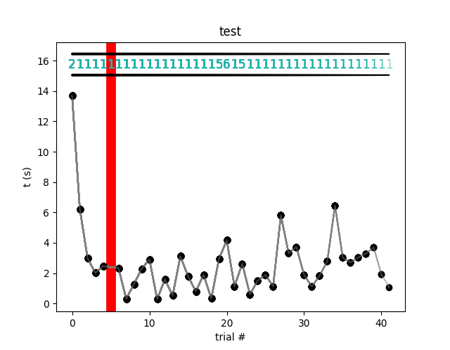
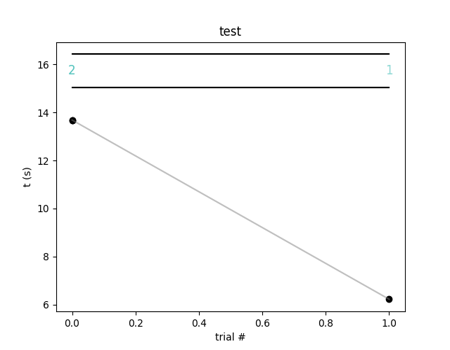
Working start button with VM test and .sh logic with communication between run_time and UI

diff --git a/krave/ui/ui.py b/krave/ui/ui.py
@@ -3,6 +3,7 @@ import matplotlib.pyplot as plt
 import pandas as pd
 from krave.ui.constants import Colors, PATHS, DEFAULT_FPS, DEFAULT_UPDATE_TIME_SECONDS, DATA_HEADERS
 from krave.output.data_writer import DataWriter
+from krave.ui.button_start_class import StartButton
 import tkinter as tk
 from tkinter import filedialog
 from threading import Thread
@@ -70,13 +71,19 @@ class UI():
         self._last_trial = -1
         self._initial_index = 1
         self._first_change = False
-        self._last_mod_time = os.path.getmtime(self._source_data_path)
+        self._last_mod_time = None
         # TODO(r.hueto@icloud.com): Remove total_trials when connected with main krave loop.
         self._total_trials = 42
     
     def _check_pygame_quit_event(self):
         """Check for events in pygame to quit the main loop and end program"""
         for event in pygame.event.get():
+                if pygame.mouse.get_pressed()[0]:
+                    mouse_x, mouse_y = pygame.mouse.get_pos()
+
+                    if self.buttonStart.pressed(mouse_x,mouse_y):
+                        self.buttonStart.activate()
+                
                 if event.type == pygame.QUIT:
                     return False
         return True
@@ -148,8 +155,11 @@ class UI():
     def draw(self):
         """Loads graph image and draws elements in the pygame window"""
         self._pygame_window.fill(Colors.WHITE)
-        img = pygame.image.load(PATHS.TEMP_IMG_RESIZED)
-        self._pygame_window.blit(img, (25,0))
+        if self.buttonStart.activated:
+            img = pygame.image.load(PATHS.TEMP_IMG_RESIZED)
+            self._pygame_window.blit(img, (25,0))
+        self.buttonStart.draw("START", self._pygame_window)
+
         pygame.display.update()
     
     def read_data_file_csv(self):
@@ -209,21 +219,8 @@ class UI():
     def run(self):
         """Run main UI thread."""
 
-        #events_path = os.path.join(DataWriter.data_write_path, DataWriter.events_name)
-        #self._source_data_path = DataWriter.events_path
-
-        test_path = "/home/pi/communication.txt"
-
-        with open(test_path, "r") as file:
-            self._source_data_path = file.read()
-
-        if os.path.exists(test_path):
-            os.remove(test_path)
-        else:
-            print("File doesn't exists")
-
-        if not self._source_data_path:
-            self._source_data_path = self._prompt_for_data_file()
+        self.buttonStart = StartButton(200, 345, 100, 50, Colors.L_BLUE)
+        
         self._init_pygame()
         self._init_analyzed_data_file()
         self._init_ui_loop_parameters()
@@ -232,18 +229,24 @@ class UI():
         start_time = time.time()
         while run:
             # Run UI update every {update_time_seconds} seconds.
-            current_time = time.time()
-            diff_time = current_time - start_time
-            if diff_time >= self._update_time_seconds:
-                start_time = time.time()
-                self.check_for_data_update()
+            if self.buttonStart.activated:
+                current_time = time.time()
+                diff_time = current_time - start_time
+                if diff_time >= self._update_time_seconds:
+                    start_time = time.time()
+                    self.check_for_data_update()
 
             self._pygame_clock.tick(self._FPS)
             self.draw()
             run = self._check_pygame_quit_event()
 
 
-
+        pid = self.buttonStart.RUN_TASK.pid
+        if self.buttonStart.RUN_TASK.poll() is None:
+            print("Ending process...")
+            self.buttonStart.RUN_TASK.terminate()
+            self.buttonStart.RUN_TASK.wait()
+            print("Process ended")
         self._quit_pygame()
 
 #FUNCTIONS

diff --git a/krave/experiment/task.py b/krave/experiment/task.py
@@ -8,7 +8,7 @@ from krave.output.data_writer import DataWriter
 from krave.hardware.visual import Visual
 from krave.hardware.camera_basler import CameraBasler
 from krave.hardware.spout import Spout
-#from krave.hardware.camera_pi import CameraPi
+from krave.hardware.camera_pi import CameraPi
 from krave.hardware.sound import Sound
 
 import pygame
@@ -36,7 +36,7 @@ class Task:
         self.visual = Visual(self.data_writer)
         self.trigger = CameraBasler(self.hardware_config, self.data_writer)
         self.spout = Spout(self.hardware_config, self.data_writer)
-        #self.camera = CameraPi()
+        self.camera = CameraPi()
         self.sound = Sound()
 
         # session variables
@@ -75,7 +75,7 @@ class Task:
 
     def start_session(self):
         """starts camera for 20 sec to adjust position of the mouse before starting session"""
-        #self.camera.on()
+        self.camera.on()
         input(f"running {self.exp_name}, press Enter to start session ..")
 
         self.running = True
@@ -91,7 +91,7 @@ class Task:
 
         self.visual.shutdown(self.status())
         self.spout.shutdown()
-        #self.camera.shutdown()
+        self.camera.shutdown()
         self.trigger.shutdown()
         GPIO.cleanup()
         print("GPIO cleaned up")

diff --git a/krave/ui/constants.py b/krave/ui/constants.py
@@ -10,9 +10,11 @@ class Colors:
     L_BLUE = (65, 105, 225) # 9
 
 class PATHS:
-    TEMP_ANALYZED_DATA = '/home/pi/real_time_analized_data.csv'
-    TEMP_IMG = '/home/pi/graph_analyzed_data.png'
-    TEMP_IMG_RESIZED = '/home/pi/graph_analyzed_data_resized.png' 
+    TEMP_ANALYZED_DATA = '/home/ricardo/krave/krave/ui/analized_data/real_time_analized_data.csv'
+    TEMP_IMG = '/home/ricardo/krave/krave/ui/images/graph_analyzed_data.png'
+    TEMP_IMG_RESIZED = '/home/ricardo/krave/krave/ui/images/graph_analyzed_data_resized.png' 
+    RUN_TASK = '/home/ricardo/krave/krave/ui/test_ui.sh'
+    INITIAL_COMMUNICATION = '/home/pi/communication.txt'
 
 class DATA_HEADERS:
     TRIAL = "trial"

diff --git a/krave/output/data_writer.py b/krave/output/data_writer.py
@@ -63,11 +63,6 @@ class DataWriter:
         data_fields = 'session_time,block_num,session_trial_num,block_trial_num,state,time_bg,reward_size,value,key'
         self.events.write(data_fields + '\n')
 
-        test_path = "/home/pi/communication.txt"
-
-        with open(test_path, "a") as file:
-            file.write(events_path)
-
     def log(self, string):
         new_line = str(time.time()) + ',' + string + '\n'
         self.events.write(new_line)
@@ -112,4 +107,4 @@ class DataWriter:
         else:
             print(f'Files saved locally at {self.data_write_path}')
 
-        #self.post_on_slack()
+        self.post_on_slack()

diff --git a/krave/ui/button_start_class.py b/krave/ui/button_start_class.py
@@ -1,0 +1,22 @@
+from krave.ui.button_class import Button
+from krave.ui.constants import PATHS
+import subprocess
+import time
+import os
+
+class StartButton(Button):
+    def activate(self):
+        self.activated = True
+        self.RUN_TASK = subprocess.Popen(["/bin/python3", PATHS.RUN_TASK])
+        print(self.RUN_TASK.stdout)
+
+        time.sleep(5)
+
+        with open(PATHS.INITIAL_COMMUNICATION, "r") as file:
+            self._source_data_path = file.read()
+
+        if os.path.exists(PATHS.INITIAL_COMMUNICATION):
+            os.remove(PATHS.INITIAL_COMMUNICATION)
+        else:
+            print("File doesn't exists")
+

diff --git a/run_task.py b/run_task.py
@@ -1,21 +1,8 @@
-from krave.experiment.task import Task
+from krave.experiment.task import Task    
 
-#Testing
-if __name__ == '__main__':
-    Task(mouse="test",
-         rig_name="rig2",
-         training="regular",
-         trainer="Rebekah",
-         record=False, 
-         forward_file = False).run()
-    
-
-#Original
-"""
 if __name__ == '__main__':
     Task(mouse="test",
          rig_name="rig1",
          training="regular",
          trainer="Rebekah",
          record=True).run()
-"""

diff --git a/krave/ui/button_class.py b/krave/ui/button_class.py
@@ -8,6 +8,9 @@ class Button(object):
           self._width = width
           self._height = height
           self._color = color
+          self.activated = False
+
+          pygame.font.init()
           self._LETTER_FONT = pygame.font.SysFont('comicsans', 20)
           self._WORD_FONT = pygame.font.SysFont('comicsans', 30 - self.width //7)
           self._TITLE_FONT = pygame.font.SysFont('comicsans', 50)
